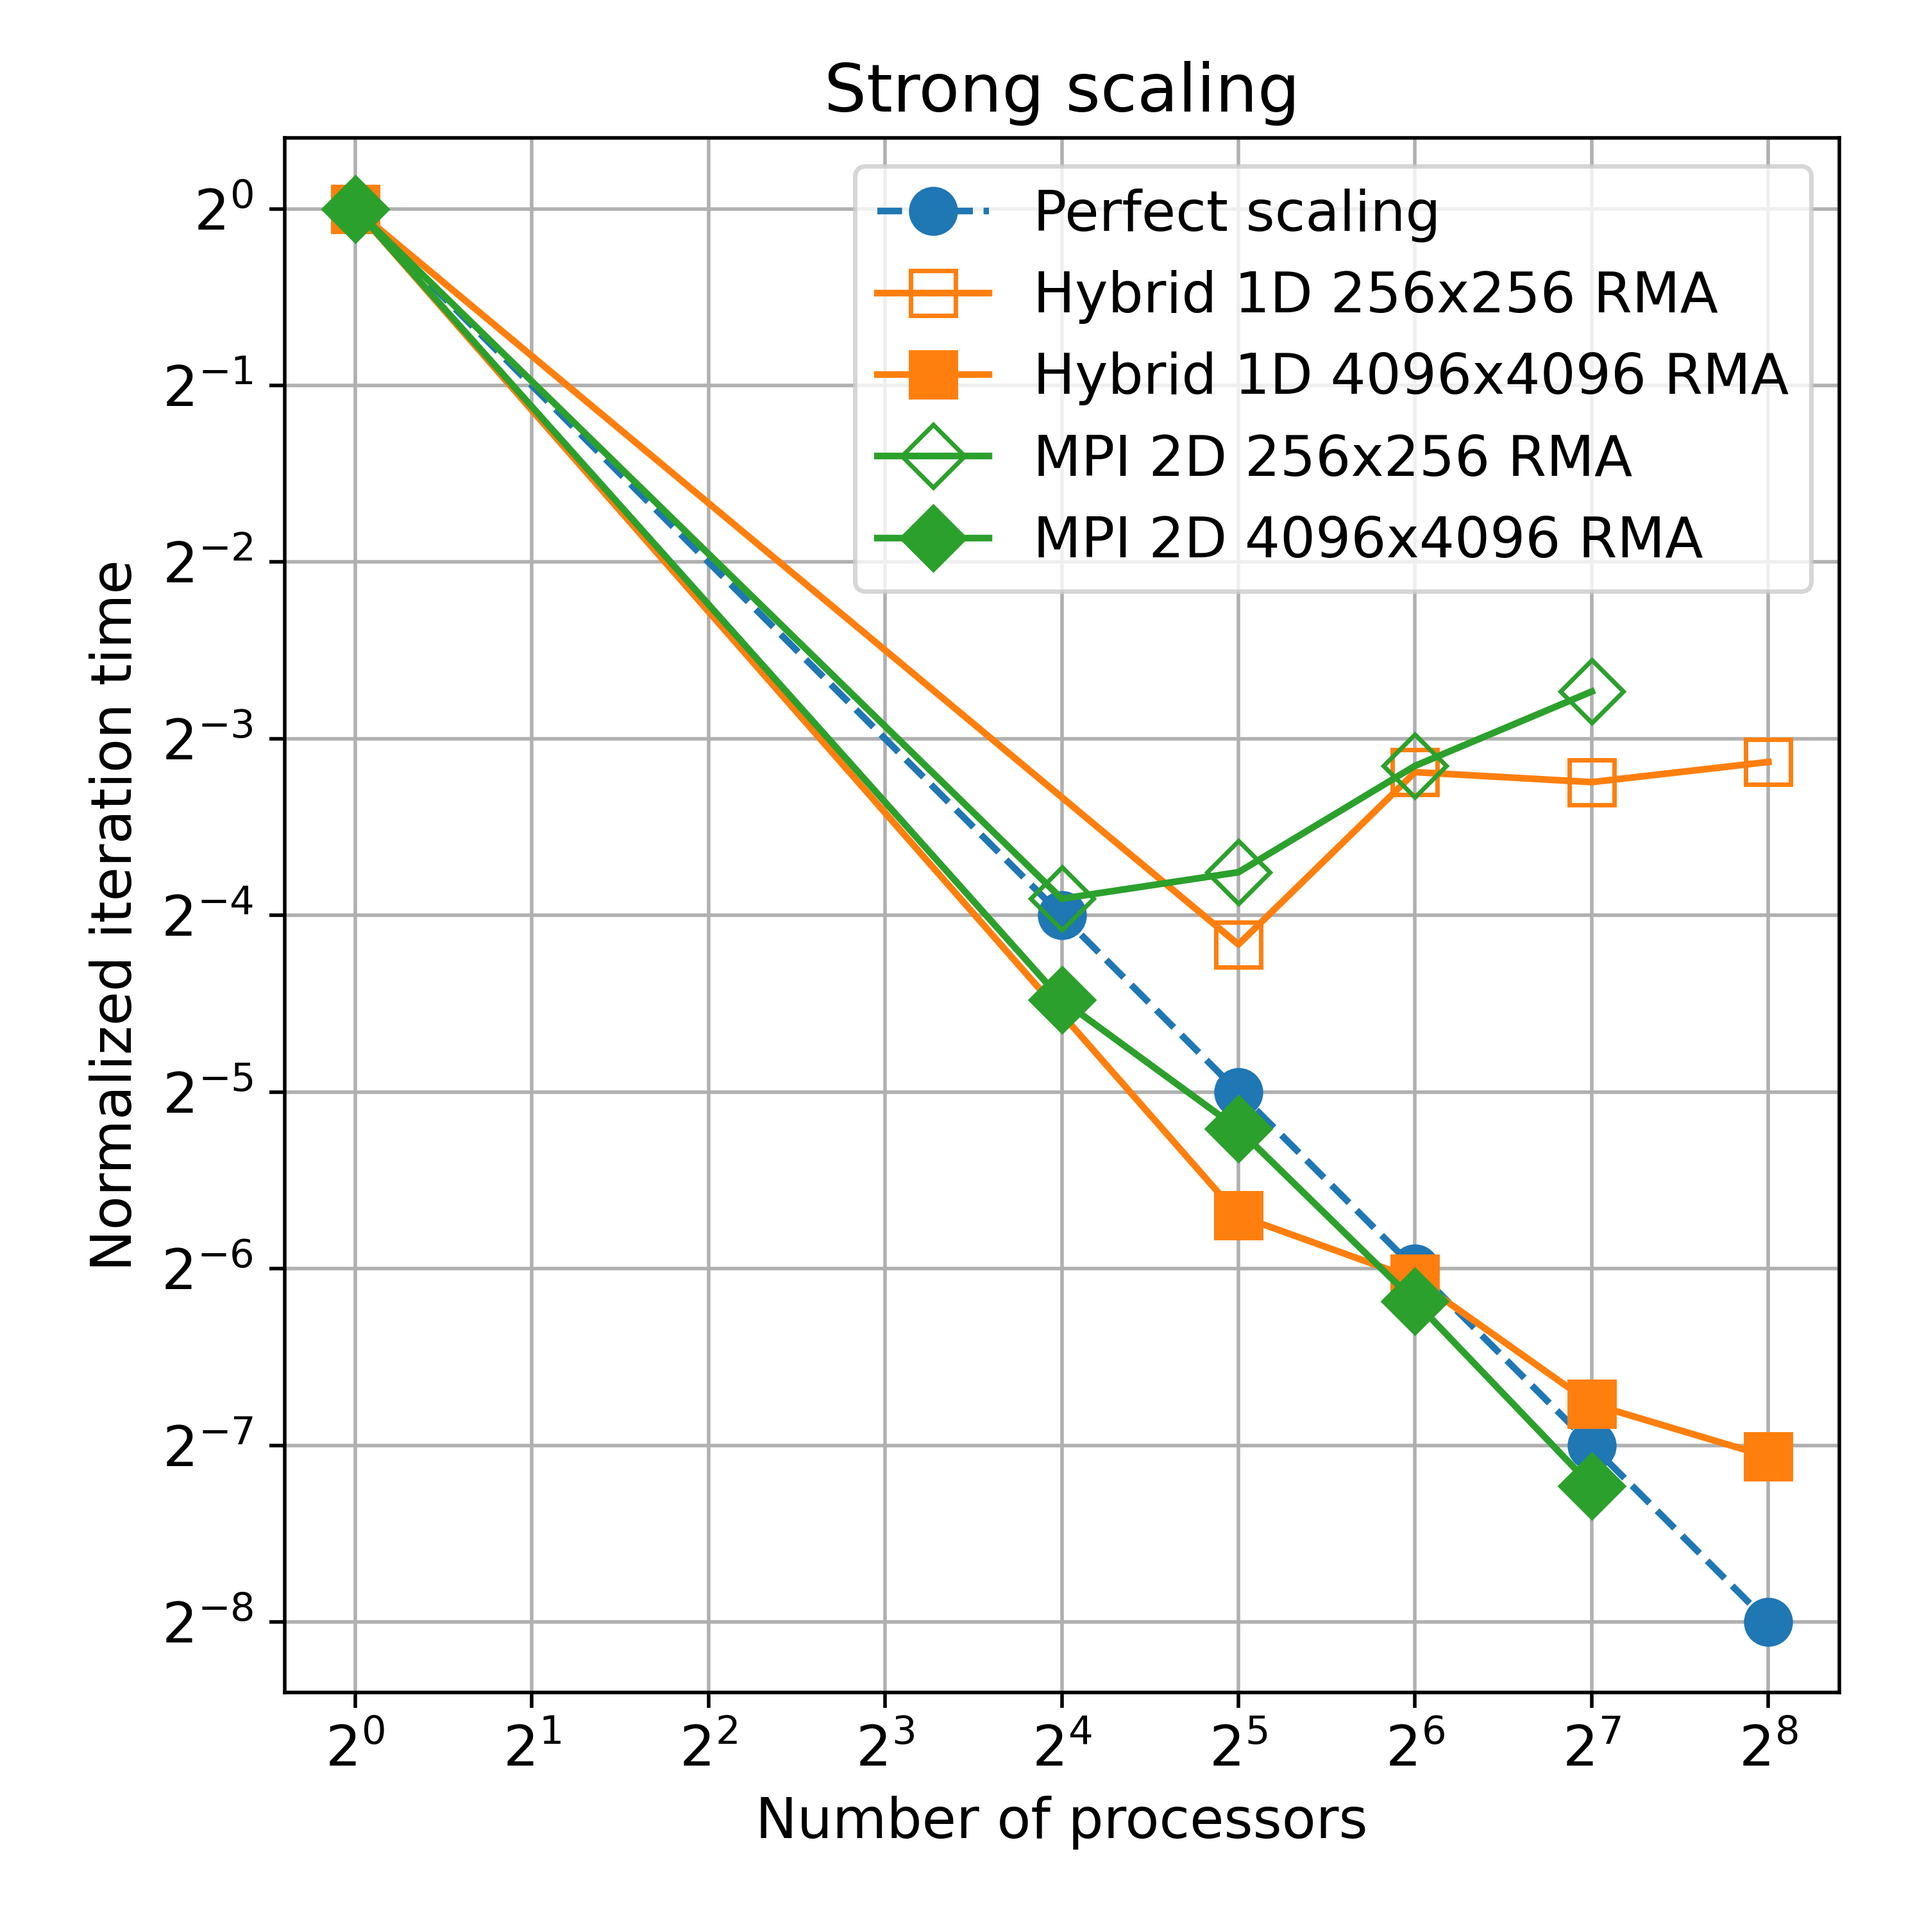
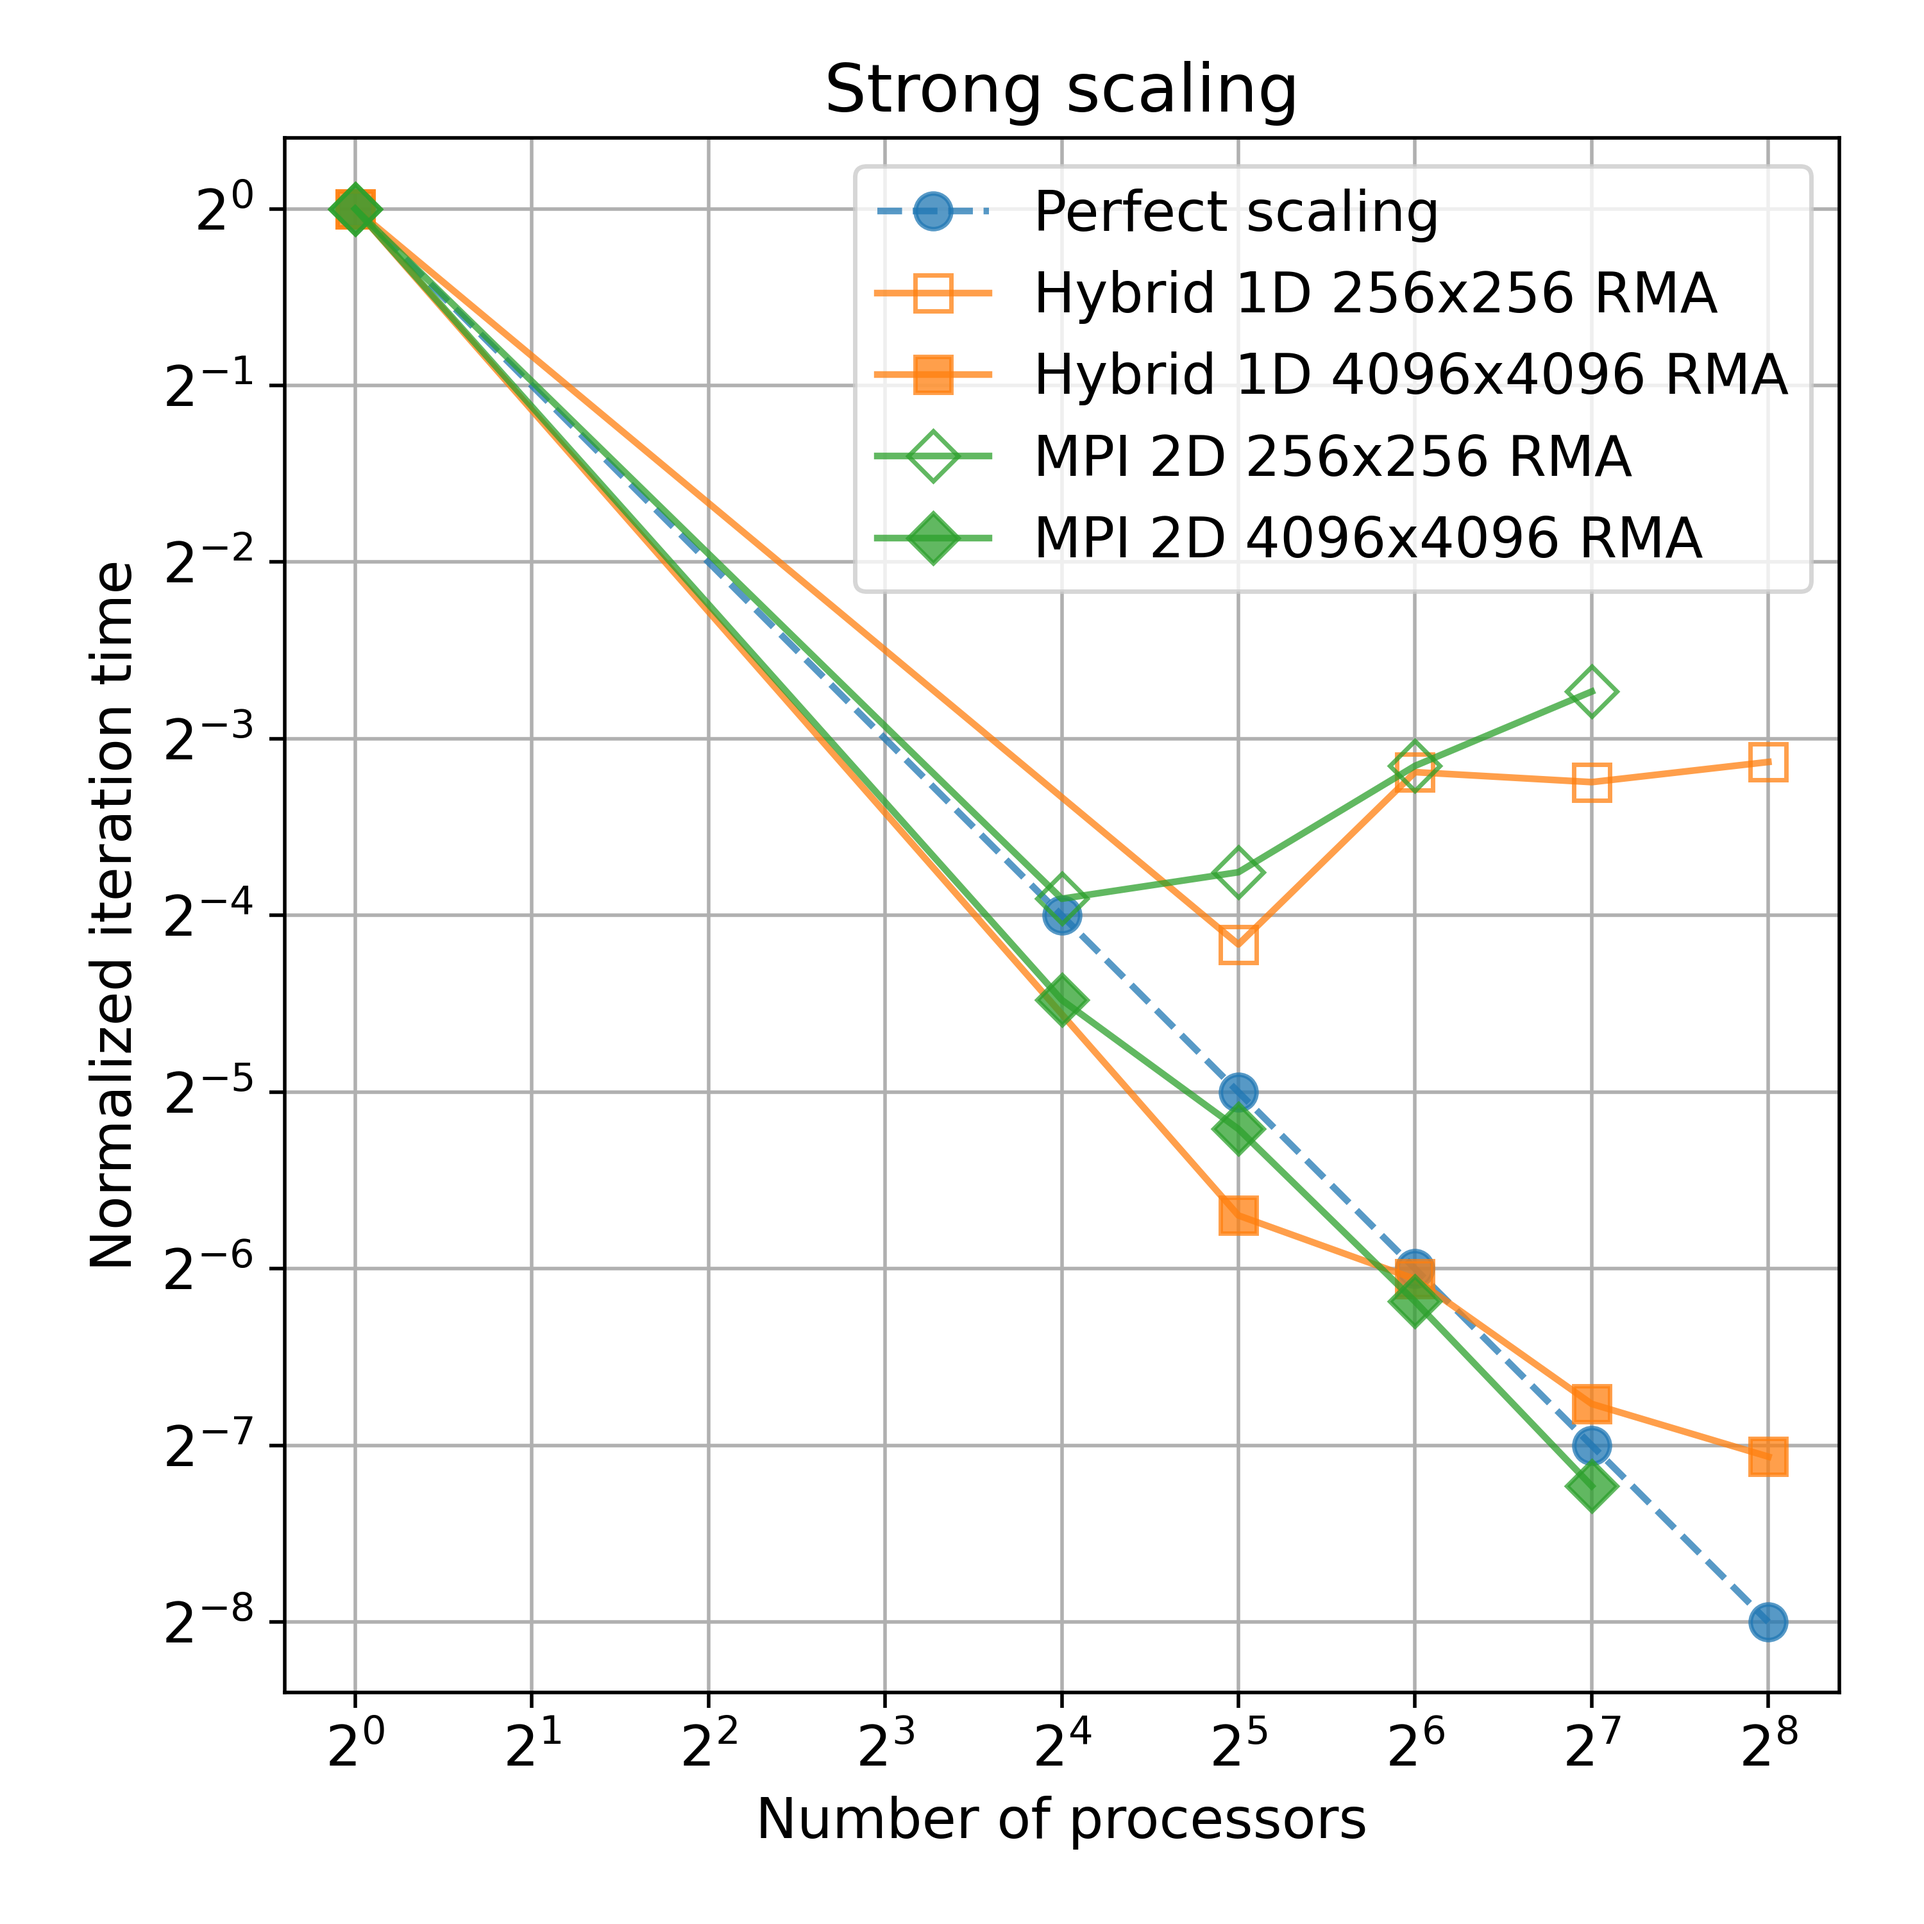
main-FS settings plots

diff --git a/heat_propagation/sources/ParallelHeatSolver.cpp b/heat_propagation/sources/ParallelHeatSolver.cpp
@@ -17,6 +17,7 @@
 #include <ios>
 #include <string_view>
 #include <iostream>
+#include <string>
 
 #include "ParallelHeatSolver.hpp"
 
@@ -51,21 +52,12 @@ ParallelHeatSolver::ParallelHeatSolver(const SimulationProperties &simulationPro
     _sizes.northSouthHalo = 2 * _sizes.localWidth;
     _sizes.westEastHalo = 2 * _sizes.localHeight;
 
-    /**********************************************************************************************************************/
-    /*                                  Call init* and alloc* methods in correct order                                    */
-    /**********************************************************************************************************************/
-
     allocLocalTiles();
     initGridTopology();
     initDataTypes();
 
     if (!mSimulationProps.getOutputFileName().empty())
     {
-        /**********************************************************************************************************************/
-        /*                               Open output file if output file name was specified.                                  */
-        /*  If mSimulationProps.useParallelIO() flag is set to true, open output file for parallel access, otherwise open it  */
-        /*                         only on MASTER rank using sequetial IO. Use openOutputFile* methods.                       */
-        /**********************************************************************************************************************/
         if (mSimulationProps.useParallelIO())
         {
             openOutputFileParallel();
@@ -82,11 +74,6 @@ ParallelHeatSolver::ParallelHeatSolver(const SimulationProperties &simulationPro
 
 ParallelHeatSolver::~ParallelHeatSolver()
 {
-    /**********************************************************************************************************************/
-    /*                                  Call deinit* and dealloc* methods in correct order                                */
-    /*                                             (should be in reverse order)                                           */
-    /**********************************************************************************************************************/
-
     deinitDataTypes();
     deinitGridTopology();
 }
@@ -1291,18 +1278,25 @@ void ParallelHeatSolver::storeDataIntoFileSequential(size_t iteration, const flo
 void ParallelHeatSolver::openOutputFileParallel()
 {
 #ifdef H5_HAVE_PARALLEL
-    Hdf5PropertyListHandle faplHandle(H5Pcreate(H5P_FILE_ACCESS));
-    H5Pset_fapl_mpio(faplHandle, _topologyComm, MPI_INFO_NULL);
+    MPI_Info fileSystemInfo;
+    MPI_Info_create(&fileSystemInfo);
+    MPI_Info_set(fileSystemInfo, "striping_factor", "1"); // number of I/O operations per process
+    string strippingUnit = to_string(_sizes.localHeight * _sizes.localWidth * sizeof(float));
+    MPI_Info_set(fileSystemInfo, "striping_unit", strippingUnit.c_str()); // size of the stripe in bytes
 
+    Hdf5PropertyListHandle faplHandle(H5Pcreate(H5P_FILE_ACCESS));
+    H5Pset_fapl_mpio(faplHandle, _topologyComm, fileSystemInfo);
+    H5Pset_alignment(faplHandle, 1, 1 << 12); // set the alignment to 4 KB
+
+ 
     /**********************************************************************************************************************/
     /*                          Open output HDF5 file for parallel access with alignment.                                 */
     /*      Set up faplHandle to use MPI-IO and alignment. The handle will automatically release the resource.            */
     /**********************************************************************************************************************/
 
-    mFileHandle = H5Fcreate(mSimulationProps.getOutputFileName(codeType).c_str(),
-                            H5F_ACC_TRUNC,
-                            H5P_DEFAULT,
-                            faplHandle);
+    mFileHandle = H5Fcreate(mSimulationProps.getOutputFileName(codeType).c_str(), H5F_ACC_TRUNC, H5P_DEFAULT, faplHandle);
+    MPI_Info_free(&fileSystemInfo);
+
     if (!mFileHandle.valid())
     {
         throw ios::failure("Cannot create output file!");

diff --git a/heat_propagation/selected_results/plot_fs_settings.py b/heat_propagation/selected_results/plot_fs_settings.py
@@ -15,32 +15,24 @@ matplotlib.rc('ytick', labelsize=SMALL_SIZE)
 matplotlib.rc('legend', fontsize=SMALL_SIZE)  
 matplotlib.rc('figure', titlesize=LARGE_SIZE) 
 
-df = pd.read_csv("fs_settings.csv", sep=";")
-df.loc[:, "mpi_procs"] *= df.loc[:, "omp_threads"]
-min_iter_time = df["iteration_time"].max()
+fig, ax = plt.subplots(figsize=(12, 6))
+for i, filename, alignment in zip([0, 1], ["fs_comparison", "fs_comparison_aligned"], ["unaligned", "aligned 4 KB"]):
+    df = pd.read_csv(f"{filename}.csv", sep=";")
+    df.loc[:, "mpi_procs"] *= df.loc[:, "omp_threads"]
+    fs_settings = df["stripe"].unique()
 
-plt.figure(figsize=(6, 6))
-plt.title("FS settings strong scaling", {"fontsize": LARGE_SIZE})
+    for output_type, color, marker in zip(["seq", "par"], list(mcolors.TABLEAU_COLORS.keys())[i::2], ["s", "D"]):
+        df_output = df[df["output_type"] == output_type]
+        for domain_size, marker_fill in zip([4096, 2048, 1024], ["full", "bottom", "top"]):
+            df_domain = df_output[df_output["domain_size"] == domain_size].copy()
+            df_domain.reset_index(drop=True, inplace=True)
+            df_domain.loc[:, "iteration_time"] /= df_domain["iteration_time"].min()
+            plt.plot(df_domain["iteration_time"], label=f"{domain_size}x{domain_size} {df_domain['mpi_procs'][0]}P {output_type} I/O {alignment if output_type == 'par' else ''}", marker=marker, markersize=8, color=color, fillstyle=marker_fill, alpha=0.75)
 
-processors = df["mpi_procs"].unique()
-ideal_times = np.ones_like(processors)
-ideal_times = ideal_times / processors
-plt.plot(processors, ideal_times, label="Perfect scaling", linestyle="--", marker="o", markersize=10)
-
-for fs, fs_name, color, marker in zip([1, 0], ["FS -S 1M -c 16", "FS default"], list(mcolors.TABLEAU_COLORS.keys())[1:], ["s", "D"]):
-    df_fs = df[df["fs"] == fs]
-    for run, marker_fill in zip([0, 1], ["none", "full"]):
-        df_run = df_fs[df_fs["run"] == run]
-        df_run.reset_index(drop=True, inplace=True)
-        df_run.loc[:, "iteration_time"] /= min_iter_time
-        plt.plot(df_run["mpi_procs"], df_run["iteration_time"], label=f"MPI 2D 4096x4096 RMA {fs_name} run {run + 1}", marker=marker, markersize=10, color=color, fillstyle=marker_fill)
-
-plt.xlabel("Number of processors")
-plt.xscale("log", base=2)
-plt.ylabel("Normalized iteration time")
-plt.yscale("log", base=2)
-plt.legend()
+ax.set_xlabel("Stripe size")
+ax.set_ylabel("Normalized iteration time")
+ax.set_xticks(np.arange(0, len(fs_settings), 1), fs_settings)
+ax.legend(loc="center left", bbox_to_anchor=(1, 0.5), ncol=1, fancybox=True, prop={'size': 10})
 plt.grid()
-plt.gca().set_aspect("equal", adjustable="box")
 plt.tight_layout()
-plt.savefig("fs_settings.png", dpi=500)
+plt.savefig(f"fs_comparison.png", dpi=500)

diff --git a/heat_propagation/selected_results/plot_strong_scaling.py b/heat_propagation/selected_results/plot_strong_scaling.py
@@ -24,15 +24,15 @@ plt.title("Strong scaling", {"fontsize": LARGE_SIZE})
 processors = df["mpi_procs"].unique()
 ideal_times = np.ones_like(processors)
 ideal_times = ideal_times / processors
-plt.plot(processors, ideal_times, label="Perfect scaling", linestyle="--", marker="o", markersize=10)
+plt.plot(processors, ideal_times, label="Perfect scaling", linestyle="--", marker="o", markersize=8)
 
 for decomposition, launch_type, color, marker in zip(["1D", "2D"], ["Hybrid", "MPI"], list(mcolors.TABLEAU_COLORS.keys())[1:], ["s", "D"]):
     df_decomposition = df[df["decomposition"] == decomposition]
     for domain_size, marker_fill in zip([256, 4096], ["none", "full"]):
-        df_domain = df_decomposition[df_decomposition["domain_size"] == domain_size]
+        df_domain = df_decomposition[df_decomposition["domain_size"] == domain_size].copy()
         df_domain.reset_index(drop=True, inplace=True)
         df_domain.loc[:, "iteration_time"] /= df_domain.loc[0, "iteration_time"]
-        plt.plot(df_domain["mpi_procs"], df_domain["iteration_time"], label=f"{launch_type} {decomposition} {domain_size}x{domain_size} RMA", marker=marker, markersize=10, color=color, fillstyle=marker_fill)
+        plt.plot(df_domain["mpi_procs"], df_domain["iteration_time"], label=f"{launch_type} {decomposition} {domain_size}x{domain_size} RMA", marker=marker, markersize=8, color=color, fillstyle=marker_fill)
 
 plt.xlabel("Number of processors")
 plt.xscale("log", base=2)

diff --git a/heat_propagation/selected_results/plot_weak_scaling.py b/heat_propagation/selected_results/plot_weak_scaling.py
@@ -48,9 +48,9 @@ ideal_times = np.ones_like(all_processors)
 
 plt.figure(figsize=(6, 6))
 plt.title("Weak scaling", {"fontsize": LARGE_SIZE})
-plt.plot(all_processors, ideal_times, label="Perfect scaling", linestyle="--", marker="o", markersize=10)
-plt.plot(df_hybrid_1d["mpi_procs"], df_hybrid_1d["iteration_time"], label="Hybrid 1D RMA", marker="s", markersize=10)
-plt.plot(df_mpi_2d["mpi_procs"], df_mpi_2d["iteration_time"], label="MPI 2D RMA", marker="D", markersize=10)
+plt.plot(all_processors, ideal_times, label="Perfect scaling", linestyle="--", marker="o", markersize=8)
+plt.plot(df_hybrid_1d["mpi_procs"], df_hybrid_1d["iteration_time"], label="Hybrid 1D RMA", marker="s", markersize=8)
+plt.plot(df_mpi_2d["mpi_procs"], df_mpi_2d["iteration_time"], label="MPI 2D RMA", marker="D", markersize=8)
 plt.xlabel("Number of processors")
 plt.xscale("log", base=2)
 plt.ylim(1 / 2**4.2, 2**4.2)
